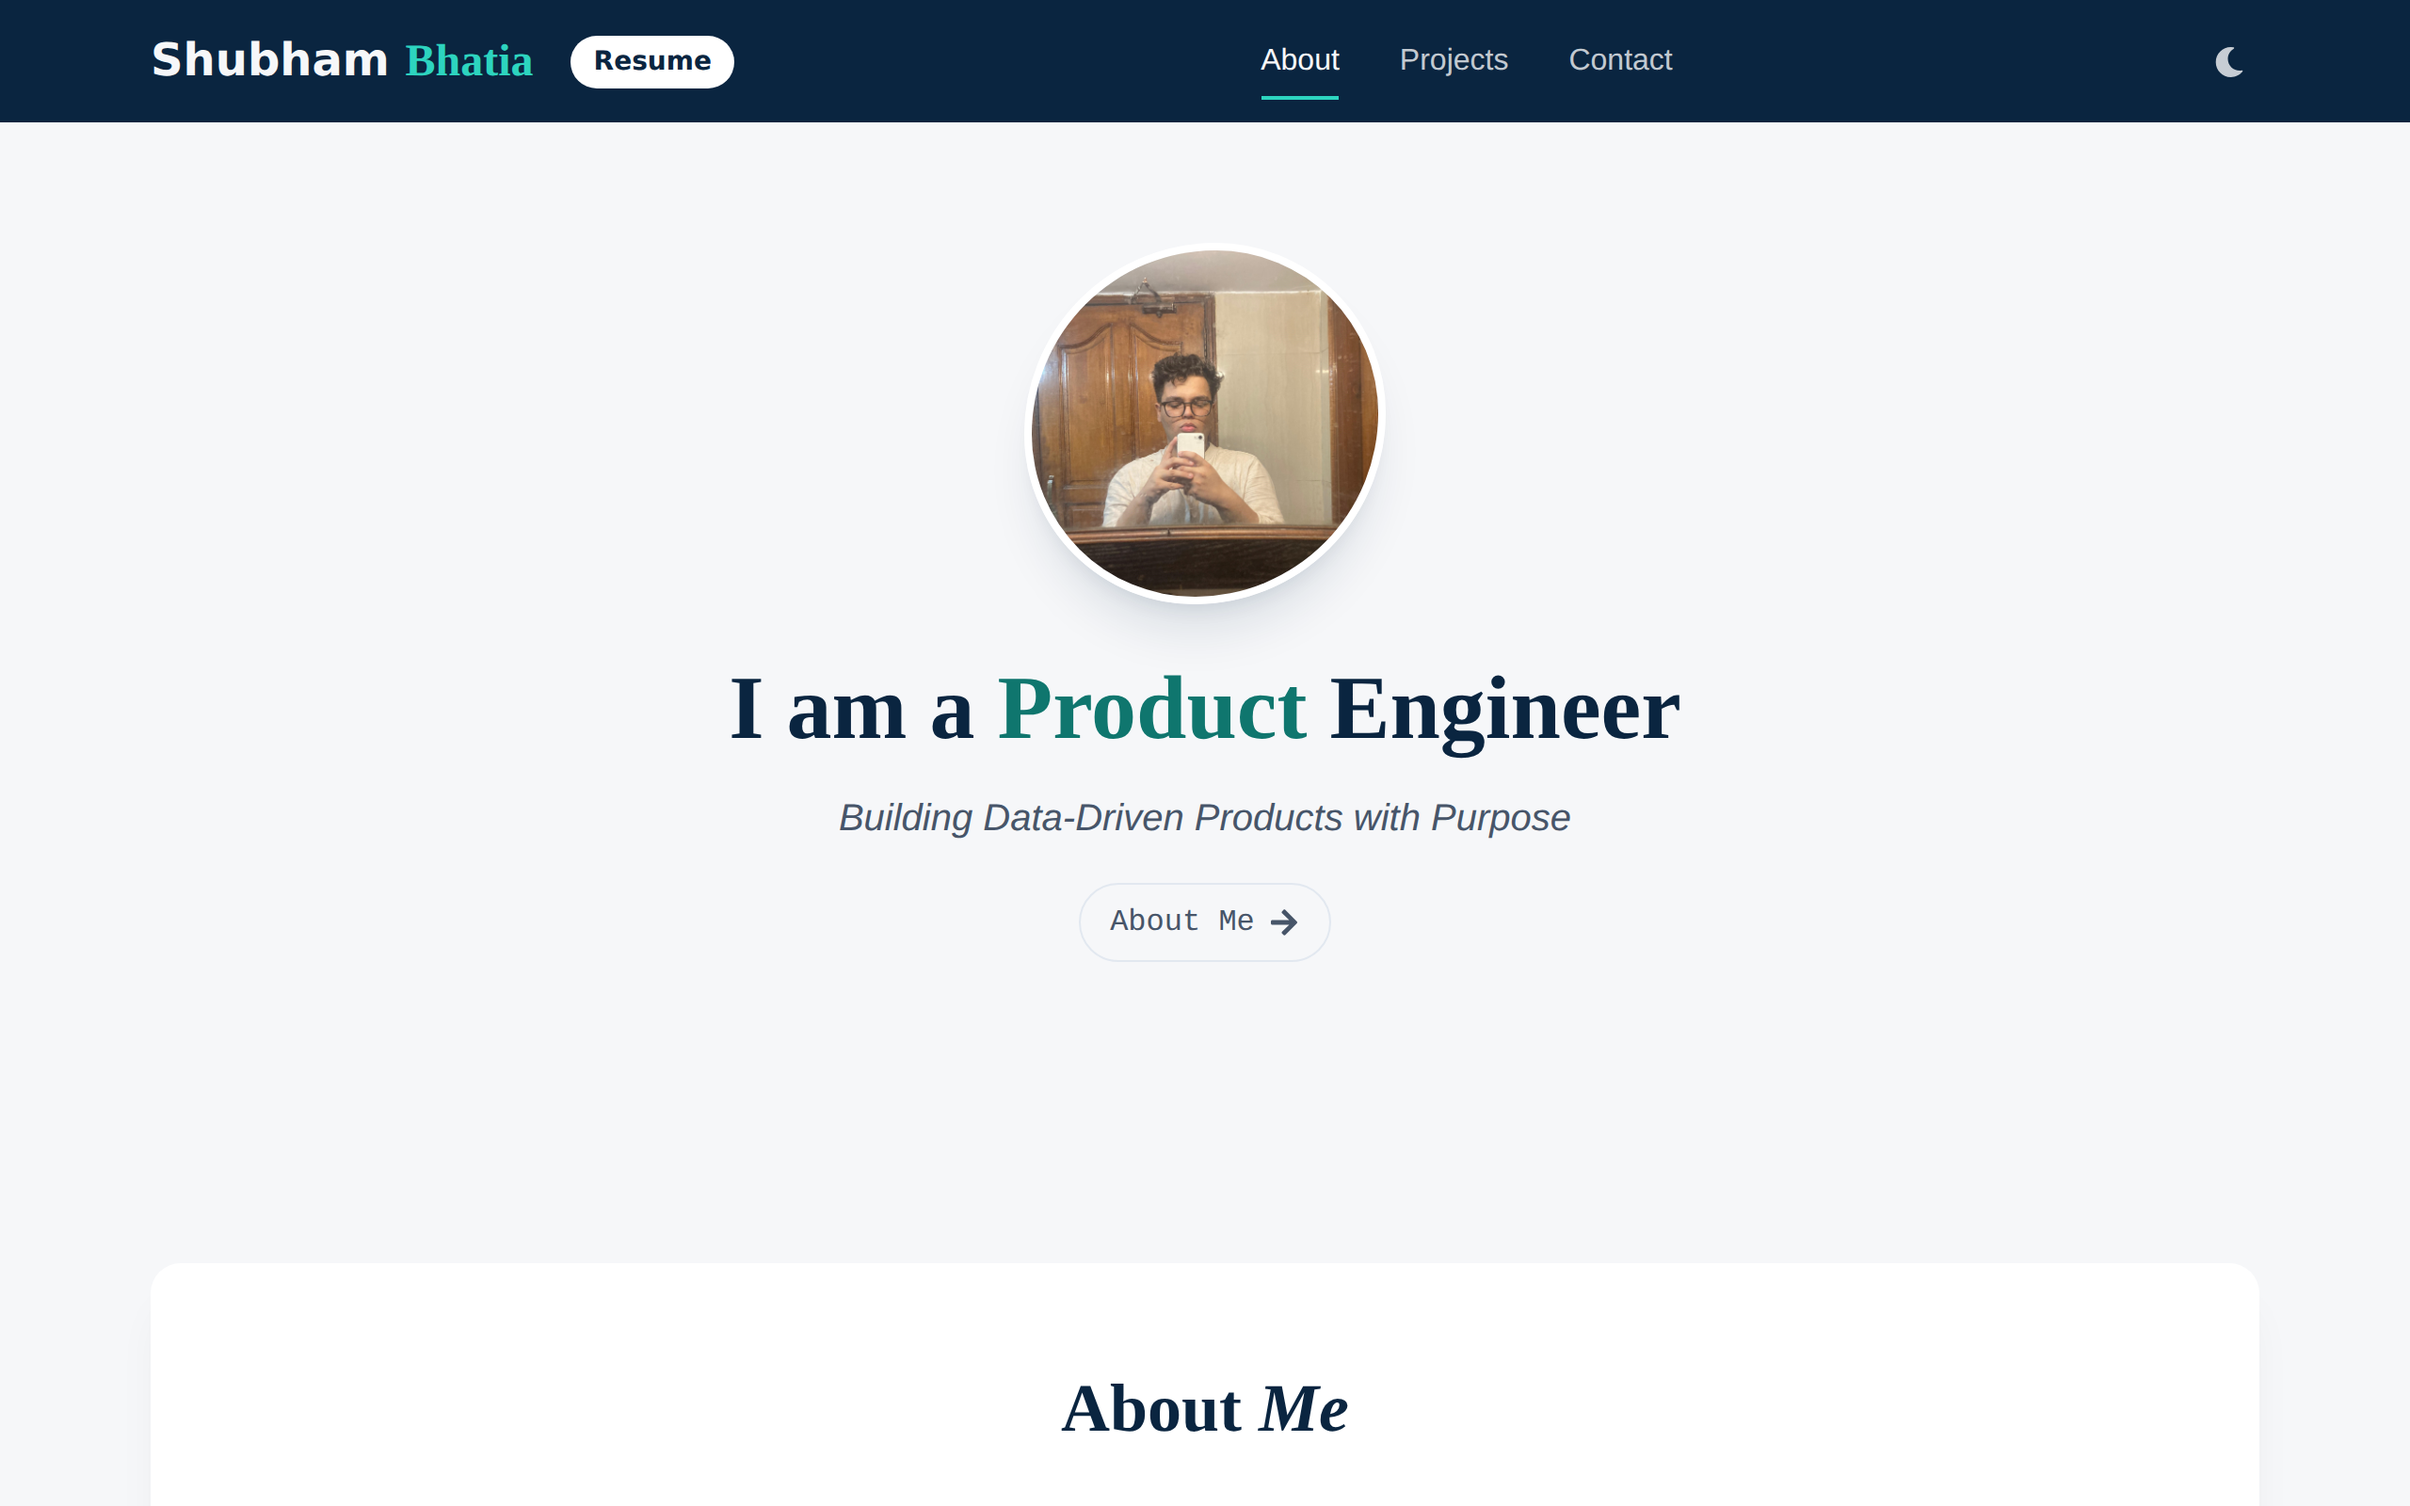
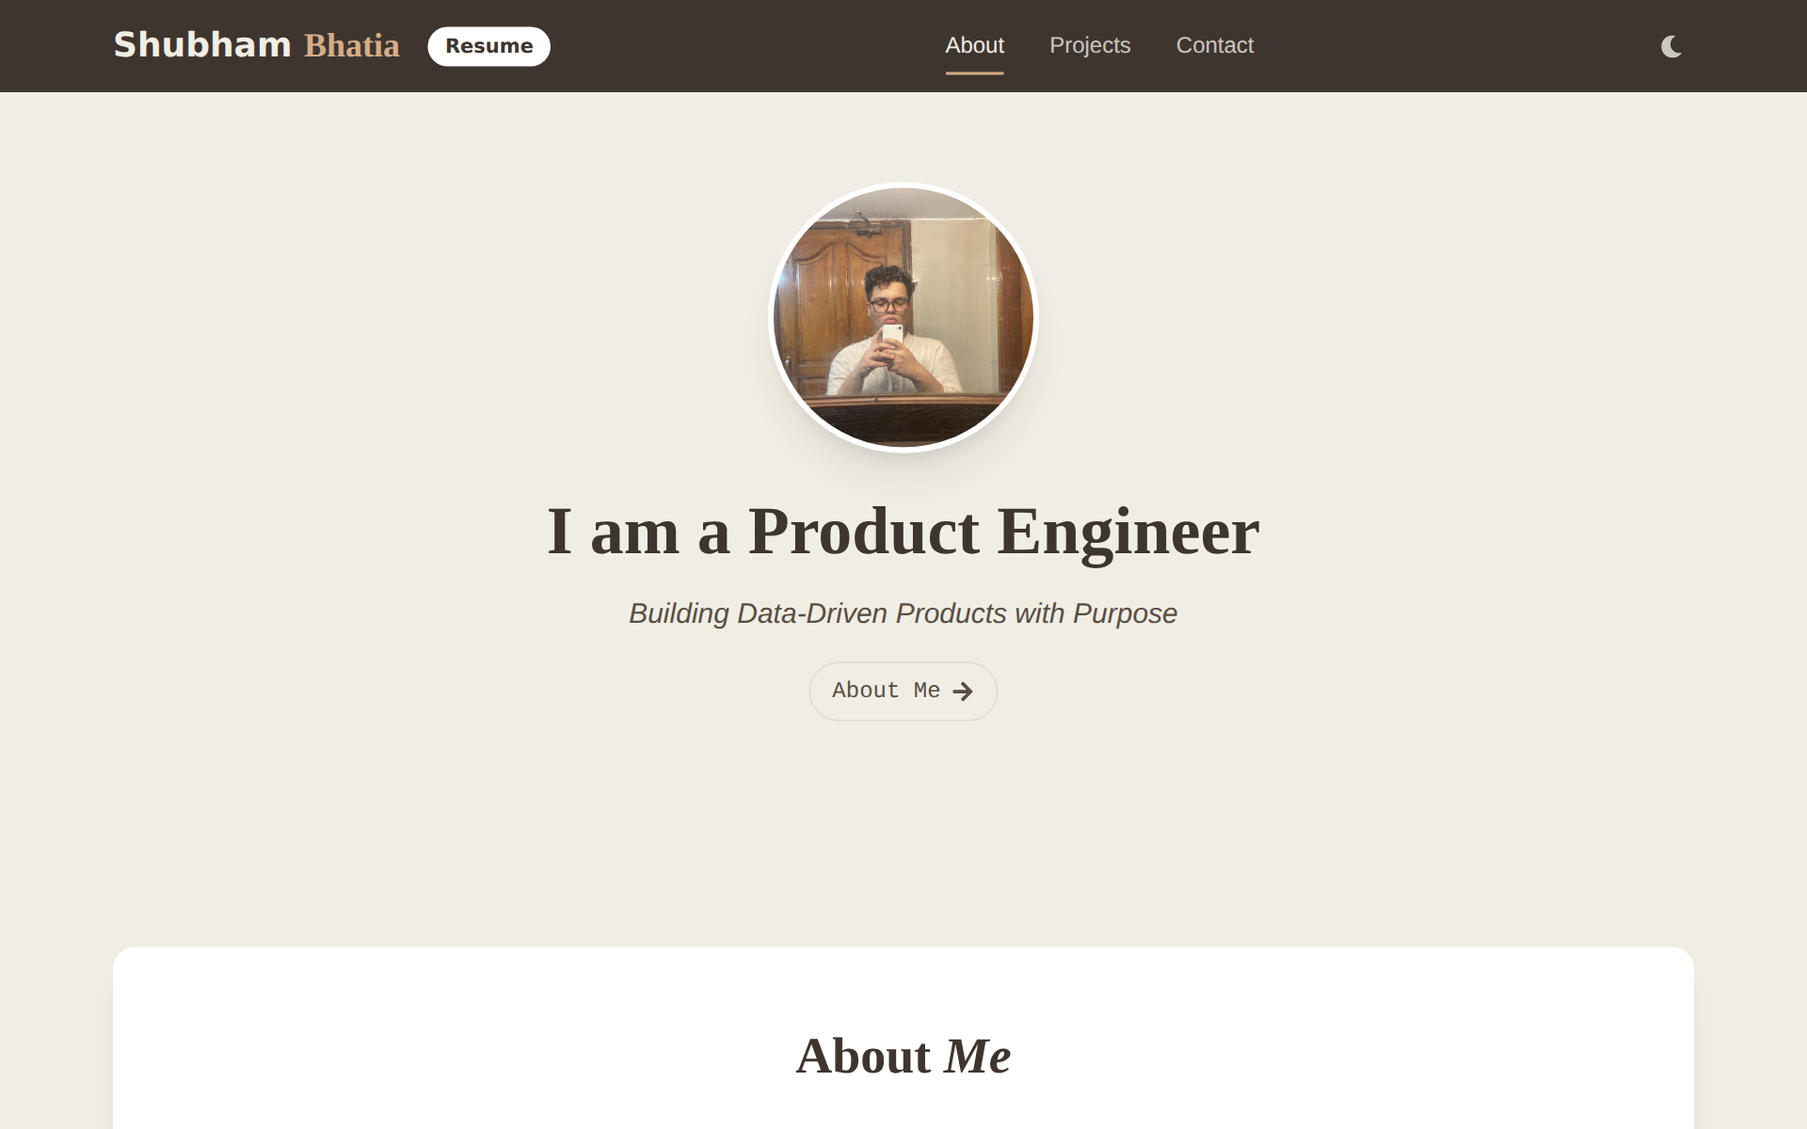
Update README screenshots and tokens for the warm earth-tone palette
The navy/teal palette (previous README's screenshots) was superseded by
the warm earth-tone palette while this branch's screenshots were still
based on the older master. Recaptured both hero screenshots from a clean
worktree of the current master, and updated the design-system token
table, typing-header color, and badge colors to match the new
surface/ink/caramel tokens instead of the old surface/navy/accent ones.

diff --git a/README.md b/README.md
@@ -1,13 +1,13 @@
 <div align="center">
 
-<img src="https://readme-typing-svg.demolab.com?font=Playfair+Display&size=32&duration=2800&pause=1200&color=14B8A6&center=true&vCenter=true&width=560&lines=Shubham+Bhatia;Product+Engineer;Building+Data-Driven+Products" alt="Typing animation: Shubham Bhatia — Product Engineer" />
+<img src="https://readme-typing-svg.demolab.com?font=Playfair+Display&size=32&duration=2800&pause=1200&color=7C5A3A&center=true&vCenter=true&width=560&lines=Shubham+Bhatia;Product+Engineer;Building+Data-Driven+Products" alt="Typing animation: Shubham Bhatia — Product Engineer" />
 
 ### Personal portfolio — [shubhambhatia.in](https://shubhambhatia.in)
 
-[![Live Site](https://img.shields.io/badge/live%20site-shubhambhatia.in-14B8A6?style=for-the-badge&logo=googlechrome&logoColor=white)](https://shubhambhatia.in)
-[![Last Commit](https://img.shields.io/github/last-commit/shubhambhatia2103/Shubham-s-Portfolio?style=for-the-badge&color=0A2540&labelColor=0A2540)](https://github.com/shubhambhatia2103/Shubham-s-Portfolio/commits/master)
-[![Repo Size](https://img.shields.io/github/repo-size/shubhambhatia2103/Shubham-s-Portfolio?style=for-the-badge&color=0A2540&labelColor=0A2540)](https://github.com/shubhambhatia2103/Shubham-s-Portfolio)
-[![Stars](https://img.shields.io/github/stars/shubhambhatia2103/Shubham-s-Portfolio?style=for-the-badge&color=0A2540&labelColor=0A2540)](https://github.com/shubhambhatia2103/Shubham-s-Portfolio/stargazers)
+[![Live Site](https://img.shields.io/badge/live%20site-shubhambhatia.in-7C5A3A?style=for-the-badge&logo=googlechrome&logoColor=white)](https://shubhambhatia.in)
+[![Last Commit](https://img.shields.io/github/last-commit/shubhambhatia2103/Shubham-s-Portfolio?style=for-the-badge&color=3F352F&labelColor=3F352F)](https://github.com/shubhambhatia2103/Shubham-s-Portfolio/commits/master)
+[![Repo Size](https://img.shields.io/github/repo-size/shubhambhatia2103/Shubham-s-Portfolio?style=for-the-badge&color=3F352F&labelColor=3F352F)](https://github.com/shubhambhatia2103/Shubham-s-Portfolio)
+[![Stars](https://img.shields.io/github/stars/shubhambhatia2103/Shubham-s-Portfolio?style=for-the-badge&color=3F352F&labelColor=3F352F)](https://github.com/shubhambhatia2103/Shubham-s-Portfolio/stargazers)
 
 <picture>
   <source media="(prefers-color-scheme: dark)" srcset=".github/assets/hero-dark.png">
@@ -136,7 +136,7 @@ src/
 
 ## Design system
 
-Colors are defined once as Tailwind theme tokens (`tailwind.config.js`) and referenced by name everywhere else — components never hardcode hex values. The palette follows a 60/30/10 balance: neutral surface dominant, navy for structure and text, teal reserved for interactive/highlight moments.
+Colors are defined once as Tailwind theme tokens (`tailwind.config.js`) and referenced by name everywhere else — components never hardcode hex values. The palette ("Delicioso / Doe / Marshmallow") follows a 60/30/10 balance: warm neutral surface dominant, espresso for structure and text, caramel reserved for interactive/highlight moments.
 
 <details>
 <summary><b>Click to expand the token table</b></summary>
@@ -145,16 +145,16 @@ Colors are defined once as Tailwind theme tokens (`tailwind.config.js`) and refe
 
 | Token | Value | Role |
 |---|---|---|
-| `surface` | ![#F6F7F9](https://img.shields.io/badge/-F6F7F9-F6F7F9?style=flat-square) `#F6F7F9` | Page / section background (60%) |
-| `surface-elevated` | ![#FFFFFF](https://img.shields.io/badge/-FFFFFF-FFFFFF?style=flat-square) `#FFFFFF` | Card surfaces |
-| `navy` | ![#0A2540](https://img.shields.io/badge/-0A2540-0A2540?style=flat-square) `#0A2540` | Headings, nav, footer, dark sections (30%) |
-| `body` | ![#475569](https://img.shields.io/badge/-475569-475569?style=flat-square) `#475569` | Body text — 7.1:1 on `surface` |
-| `line` | ![#E2E8F0](https://img.shields.io/badge/-E2E8F0-E2E8F0?style=flat-square) `#E2E8F0` | Borders / dividers |
-| `accent` | ![#14B8A6](https://img.shields.io/badge/-14B8A6-14B8A6?style=flat-square) `#14B8A6` | CTA fills (10%) |
-| `accent-text` | ![#0F766E](https://img.shields.io/badge/-0F766E-0F766E?style=flat-square) `#0F766E` | Accent as text/link — 5.1:1 on `surface` |
-| `accent-dark` | ![#2DD4BF](https://img.shields.io/badge/-2DD4BF-2DD4BF?style=flat-square) `#2DD4BF` | Accent text on dark surfaces — 8.4:1 on `navy` |
+| `surface` | ![#f0eee4](https://img.shields.io/badge/-f0eee4-f0eee4?style=flat-square) `#f0eee4` | Page / section background (60%) |
+| `surface-elevated` | ![#ffffff](https://img.shields.io/badge/-ffffff-ffffff?style=flat-square) `#ffffff` | Card surfaces |
+| `ink` | ![#3f352f](https://img.shields.io/badge/-3f352f-3f352f?style=flat-square) `#3f352f` | Headings, nav, footer, dark sections (30%) |
+| `body` | ![#5a4d43](https://img.shields.io/badge/-5a4d43-5a4d43?style=flat-square) `#5a4d43` | Body text — 7.0:1 on `surface` |
+| `line` | ![#e0dccd](https://img.shields.io/badge/-e0dccd-e0dccd?style=flat-square) `#e0dccd` | Borders / dividers |
+| `caramel` | ![#b98e68](https://img.shields.io/badge/-b98e68-b98e68?style=flat-square) `#b98e68` | Large fills only — decorative shapes, hover glows (10%) |
+| `caramel-text` | ![#7c5a3a](https://img.shields.io/badge/-7c5a3a-7c5a3a?style=flat-square) `#7c5a3a` | Caramel as text/link/CTA fill — 5.3:1 on `surface` |
+| `caramel-dark` | ![#d4ad86](https://img.shields.io/badge/-d4ad86-d4ad86?style=flat-square) `#d4ad86` | Caramel text on espresso surfaces — 5.8:1 on `ink` |
 
-Every pairing above is checked against WCAG 2.2 AA (4.5:1 normal text, 3:1 large text/UI). Focus rings use the accent tone; `#14B8A6` is never used as small text or a thin border since it falls short of 3:1 on its own.
+Every pairing above is checked against WCAG 2.2 AA (4.5:1 normal text, 3:1 large text/UI). Focus rings use `caramel-text`/`caramel-dark`; `#b98e68` (Doe) is never used as small text or a thin border since it falls short of 3:1 on its own — it's restricted to large fills.
 
 </details>
 
@@ -170,10 +170,10 @@ The [Contact](src/Components/Contact.jsx) section posts directly to [Formspree](
 
 <div align="center">
 
-[![GitHub](https://img.shields.io/badge/GitHub-0A2540?style=for-the-badge&logo=github&logoColor=white)](https://github.com/shubhambhatia2103)
-[![LinkedIn](https://img.shields.io/badge/LinkedIn-0A2540?style=for-the-badge&logo=linkedin&logoColor=white)](https://www.linkedin.com/in/shubhambhatia2103/)
-[![Instagram](https://img.shields.io/badge/Instagram-0A2540?style=for-the-badge&logo=instagram&logoColor=white)](https://www.instagram.com/6eingshubham/)
-[![Twitter](https://img.shields.io/badge/Twitter-0A2540?style=for-the-badge&logo=x&logoColor=white)](https://x.com/whoodattboyy)
+[![GitHub](https://img.shields.io/badge/GitHub-3F352F?style=for-the-badge&logo=github&logoColor=white)](https://github.com/shubhambhatia2103)
+[![LinkedIn](https://img.shields.io/badge/LinkedIn-3F352F?style=for-the-badge&logo=linkedin&logoColor=white)](https://www.linkedin.com/in/shubhambhatia2103/)
+[![Instagram](https://img.shields.io/badge/Instagram-3F352F?style=for-the-badge&logo=instagram&logoColor=white)](https://www.instagram.com/6eingshubham/)
+[![Twitter](https://img.shields.io/badge/Twitter-3F352F?style=for-the-badge&logo=x&logoColor=white)](https://x.com/whoodattboyy)
 
 <br>
 
